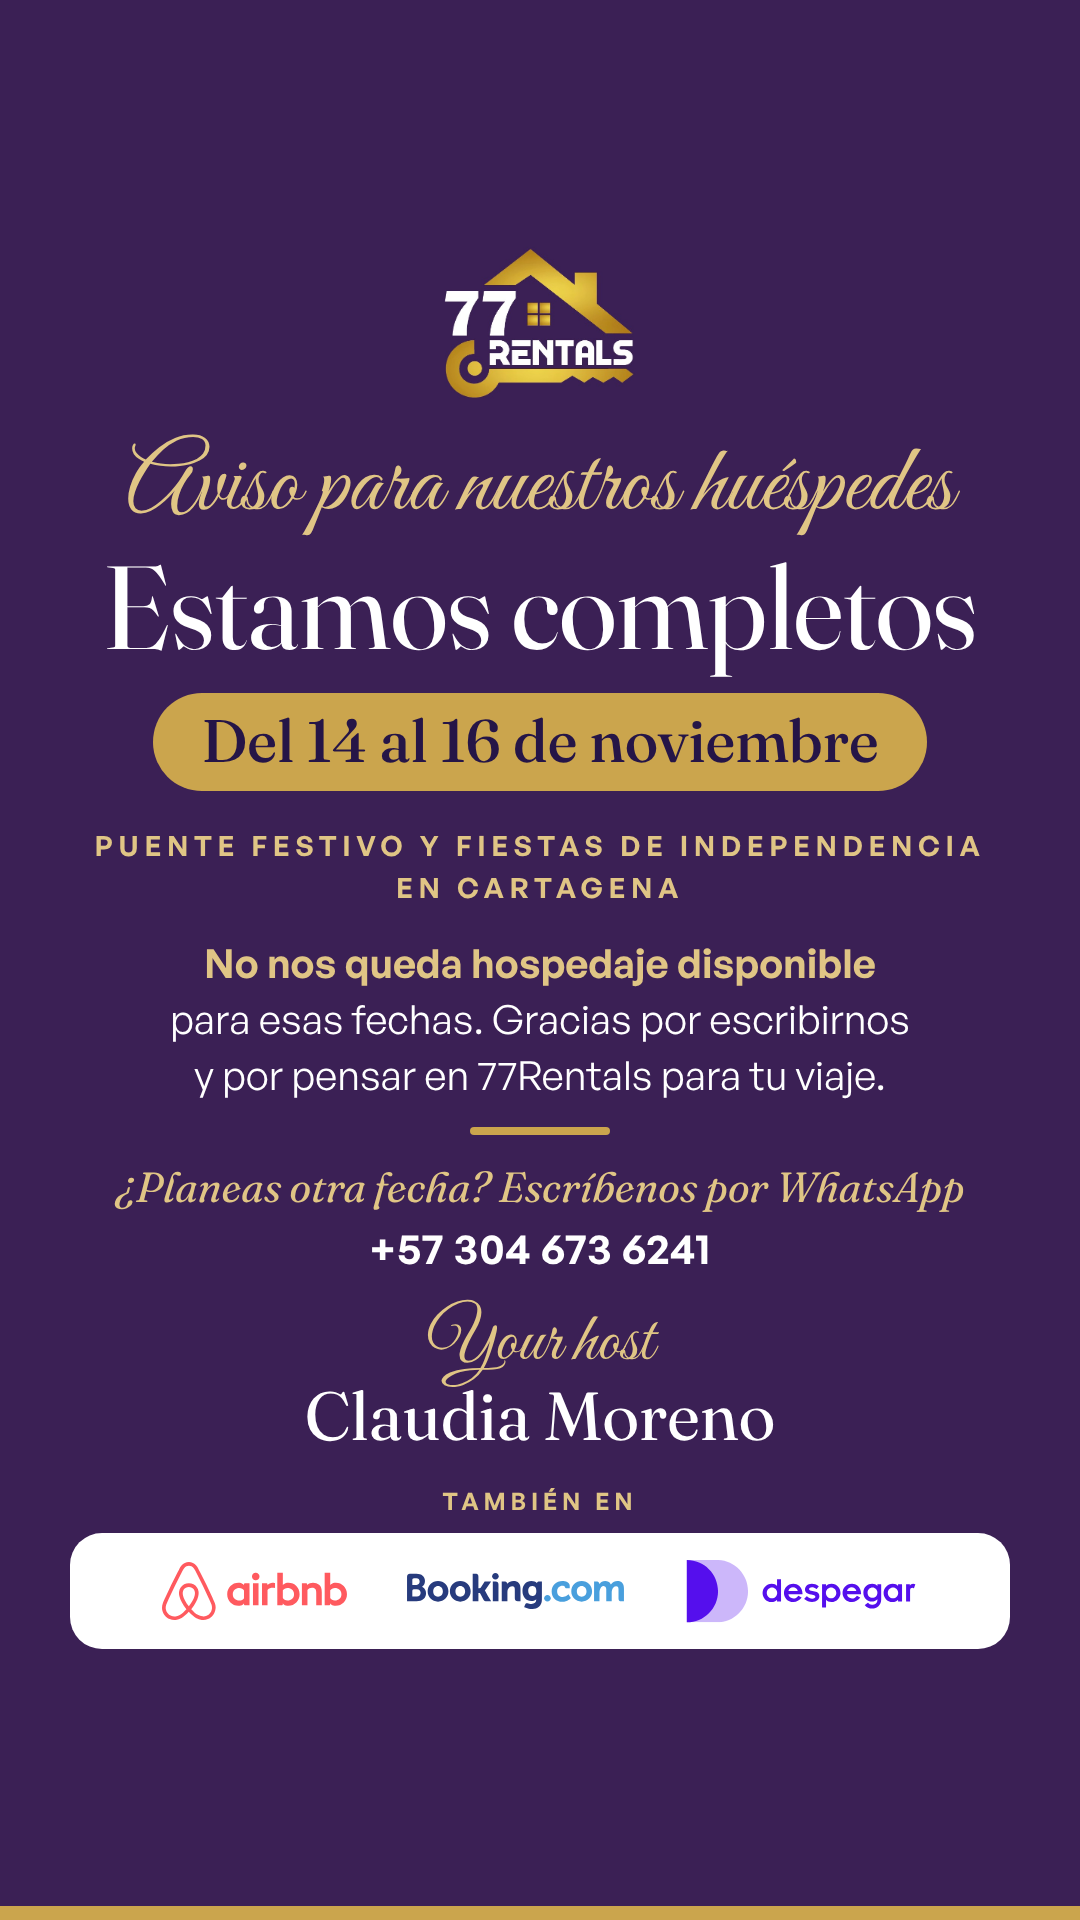
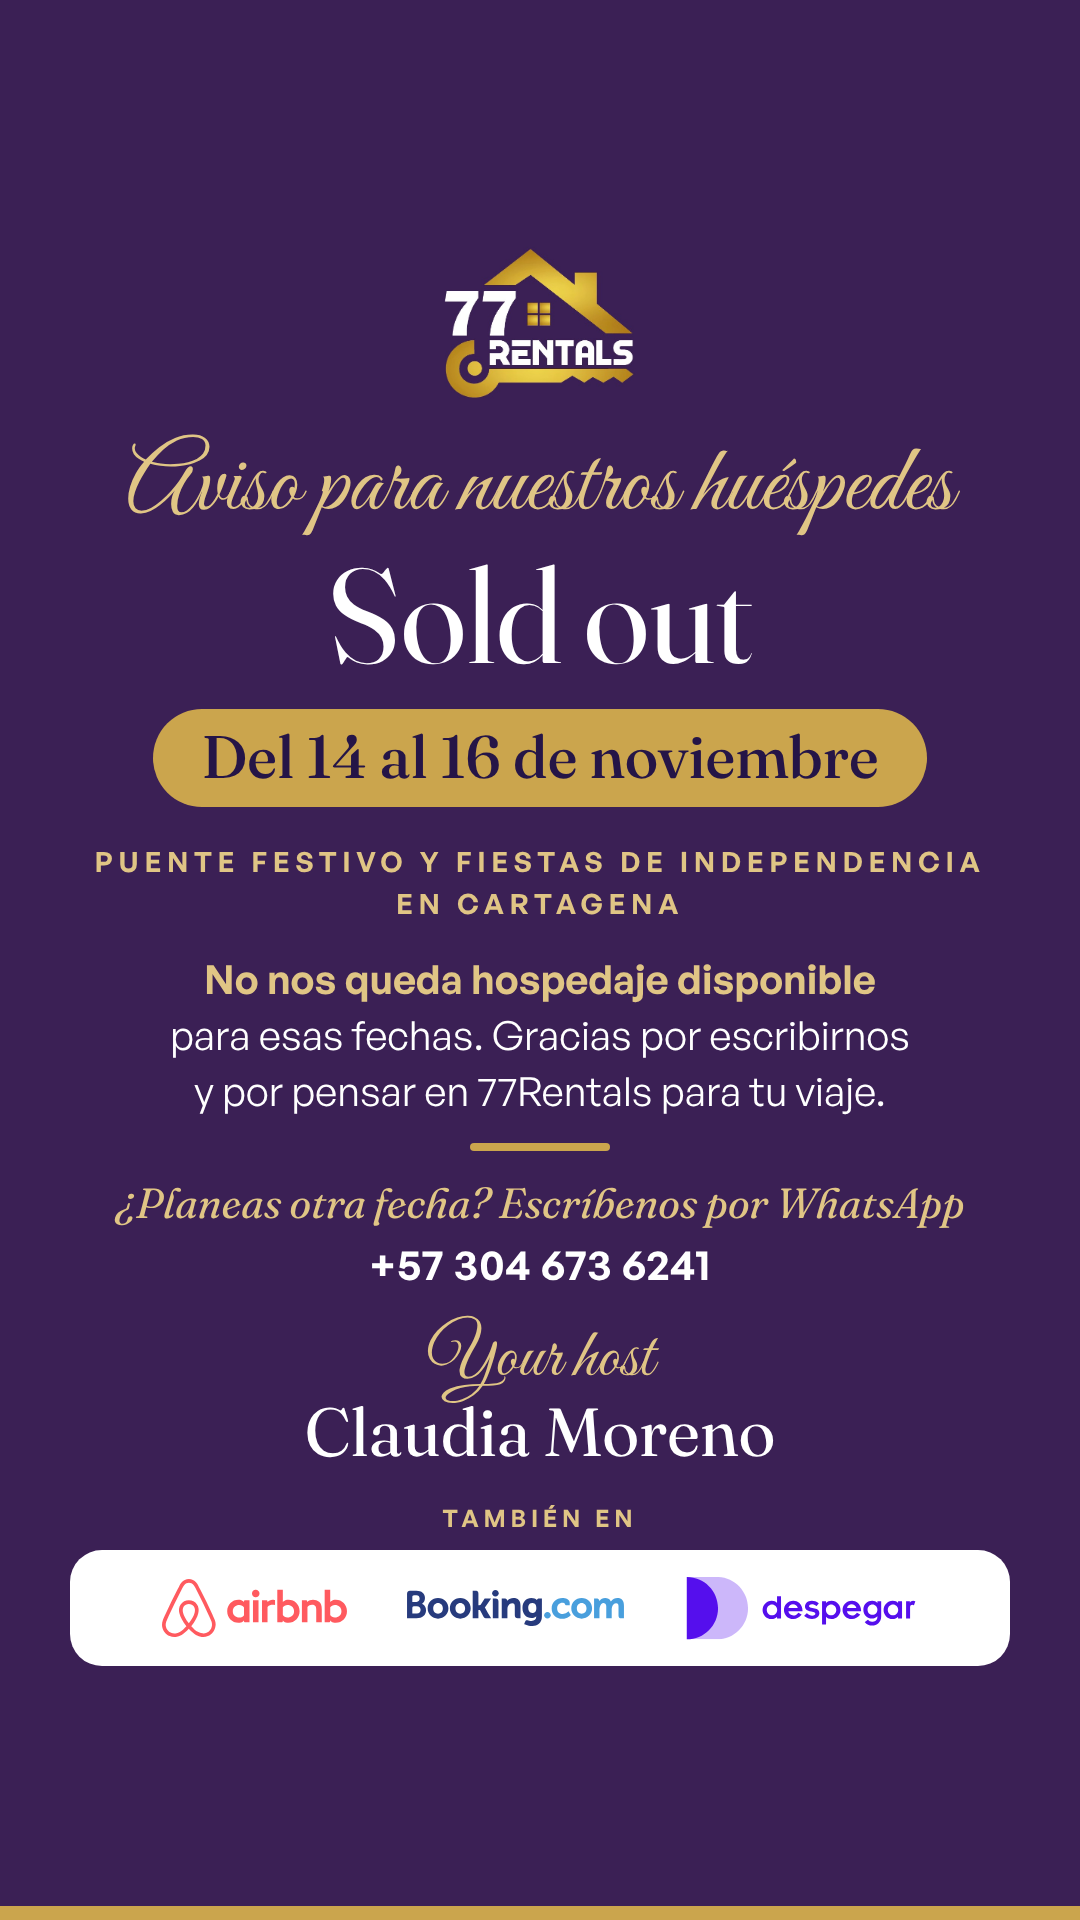
Status poster: Sold out headline
Claude-Session: https://claude.ai/code/session_01TDPBANVe18xXuRLrDjir42

Changed region(s): [[0.0611, 0.2812, 0.9472, 0.875], [0.1222, 0.375, 0.1528, 0.4062], [0.0917, 0.625, 0.1222, 0.6562]]

diff --git a/posters/status/aviso-puente-cartagena/aviso-puente-cartagena.html b/posters/status/aviso-puente-cartagena/aviso-puente-cartagena.html
@@ -19,7 +19,7 @@
   .poster::after { content: ""; position: absolute; left: 0; right: 0; bottom: 0; height: 14px; background: var(--gold); }
   .logo { width: 250px; display: block; flex: none; border-radius: 28px; }
   .script { font-family: var(--font-script); color: var(--gold-light); font-size: 96px; line-height: 1; margin-top: 24px; }
-  h1 { font-family: var(--font-heading); font-weight: 400; font-size: 118px; line-height: 1.02; margin-top: 12px; }
+  h1 { font-family: var(--font-heading); font-weight: 400; font-size: 134px; line-height: 1.02; margin-top: 12px; }
   .date { margin-top: 26px; background: var(--gold); color: var(--purple-dark); border-radius: 999px; padding: 14px 48px 18px; font-family: var(--font-heading); font-weight: 500; font-size: 60px; line-height: 1.1; }
   .event { font-size: 28px; font-weight: 600; letter-spacing: .2em; text-transform: uppercase; color: var(--gold-light); margin-top: 34px; line-height: 1.5; }
   .text { font-size: 40px; line-height: 1.4; margin-top: 26px; text-wrap: balance; }
@@ -38,7 +38,7 @@
 <div class="poster" id="poster">
   <img class="logo" src="../../../brand/logos/logo77.jpeg" alt="77Rentals">
   <div class="script">Aviso para nuestros huéspedes</div>
-  <h1>Estamos completos</h1>
+  <h1>Sold out</h1>
   <div class="date">Del 14 al 16 de noviembre</div>
   <div class="event">Puente festivo y Fiestas de Independencia<br>en Cartagena</div>
   <p class="text"><strong>No nos queda hospedaje disponible</strong> para esas fechas. Gracias por escribirnos y por pensar en 77Rentals para tu viaje.</p>
